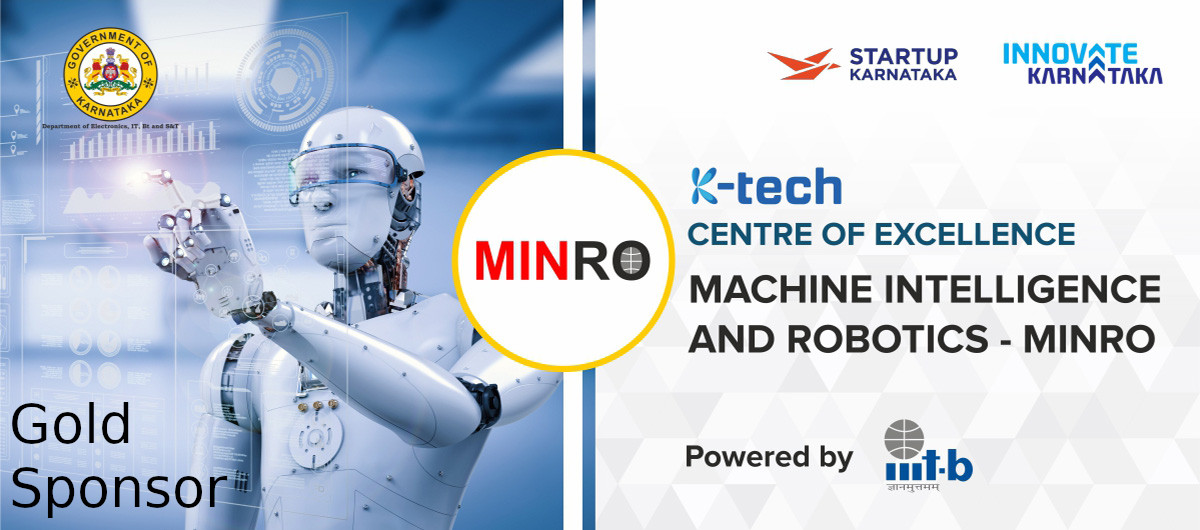
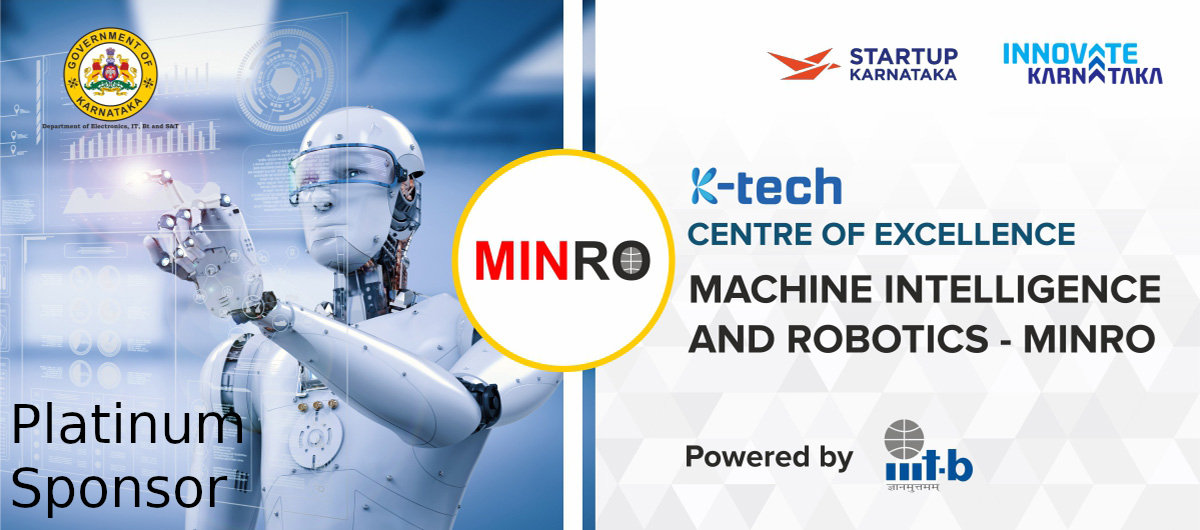
adding Marialena Kyriakidi

Changed region(s): [[0.0, 0.7547, 0.2158, 0.8453], [0.0617, 0.0604, 0.1233, 0.2113]]

diff --git a/_includes/sponsor.html b/_includes/sponsor.html
@@ -9,7 +9,7 @@
     <h4 class="text-center">Sponsors</h4>
     <hr>
     <div class="col-12 text-center">
-        <h5>Gold Sponsor</h5>
+        <h5>Platinum Sponsor</h5>
         <a href="http://minro.org/" target="_blank"><img src="{{ site.baseurl }}/images/sponsor/small/minro.png?{{ site.time | date: "%s" }}" style="max-width: 70%;" alt="MINRO"></a>
     </div>
     <hr>
